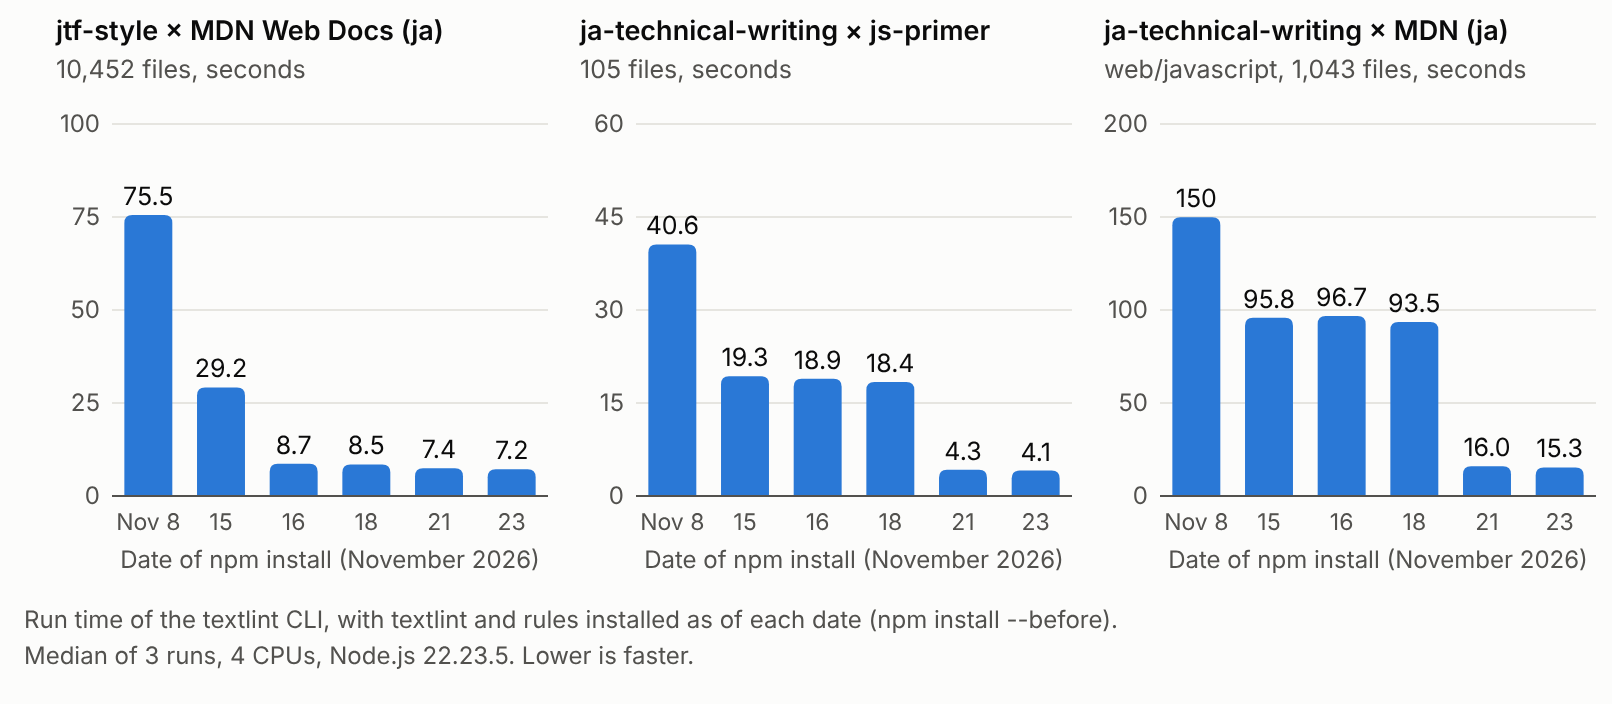
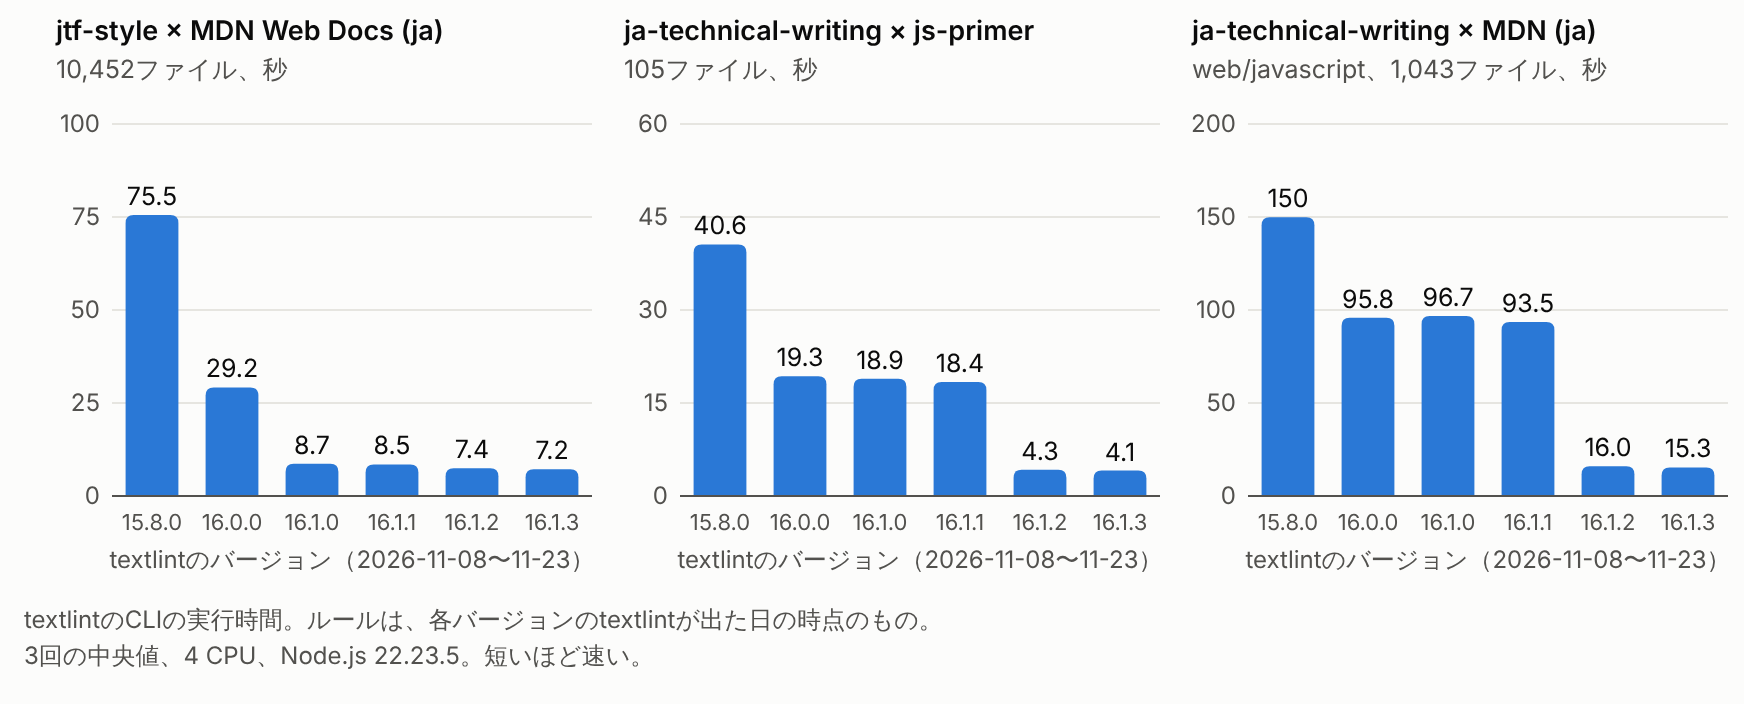
textlintのパフォーマンス改善: グラフを日本語にして、横軸をtextlintのバージョンにする
Claude-Session: https://claude.ai/code/session_01TSdrAGGBrsEKGNtvvdWQaQ

diff --git a/_posts/2026/2026-11-23-textlint-performance.md b/_posts/2026/2026-11-23-textlint-performance.md
@@ -14,9 +14,10 @@ tags:
 この2週間で、[textlint](https://github.com/textlint/textlint)と、よく使われているルールやライブラリのパフォーマンスを改善しました。
 lintにかかる時間は、約10分の1になっています。
 
-![インストールした日付ごとのtextlintのCLIの実行時間](/wp-content/uploads/2026/textlint-performance.png)
+![textlintのバージョンごとのCLIの実行時間](/wp-content/uploads/2026/textlint-performance.png)
 
-グラフは、その日に`npm install`した状態での実行時間です。
+グラフは、textlintの各バージョンが出た日に`npm install`した状態での実行時間です。
+ルールとライブラリも、その日の時点のバージョンです。
 設定やルールは変えずに、textlintとルールをアップデートすると速くなります。
 
 ```sh
